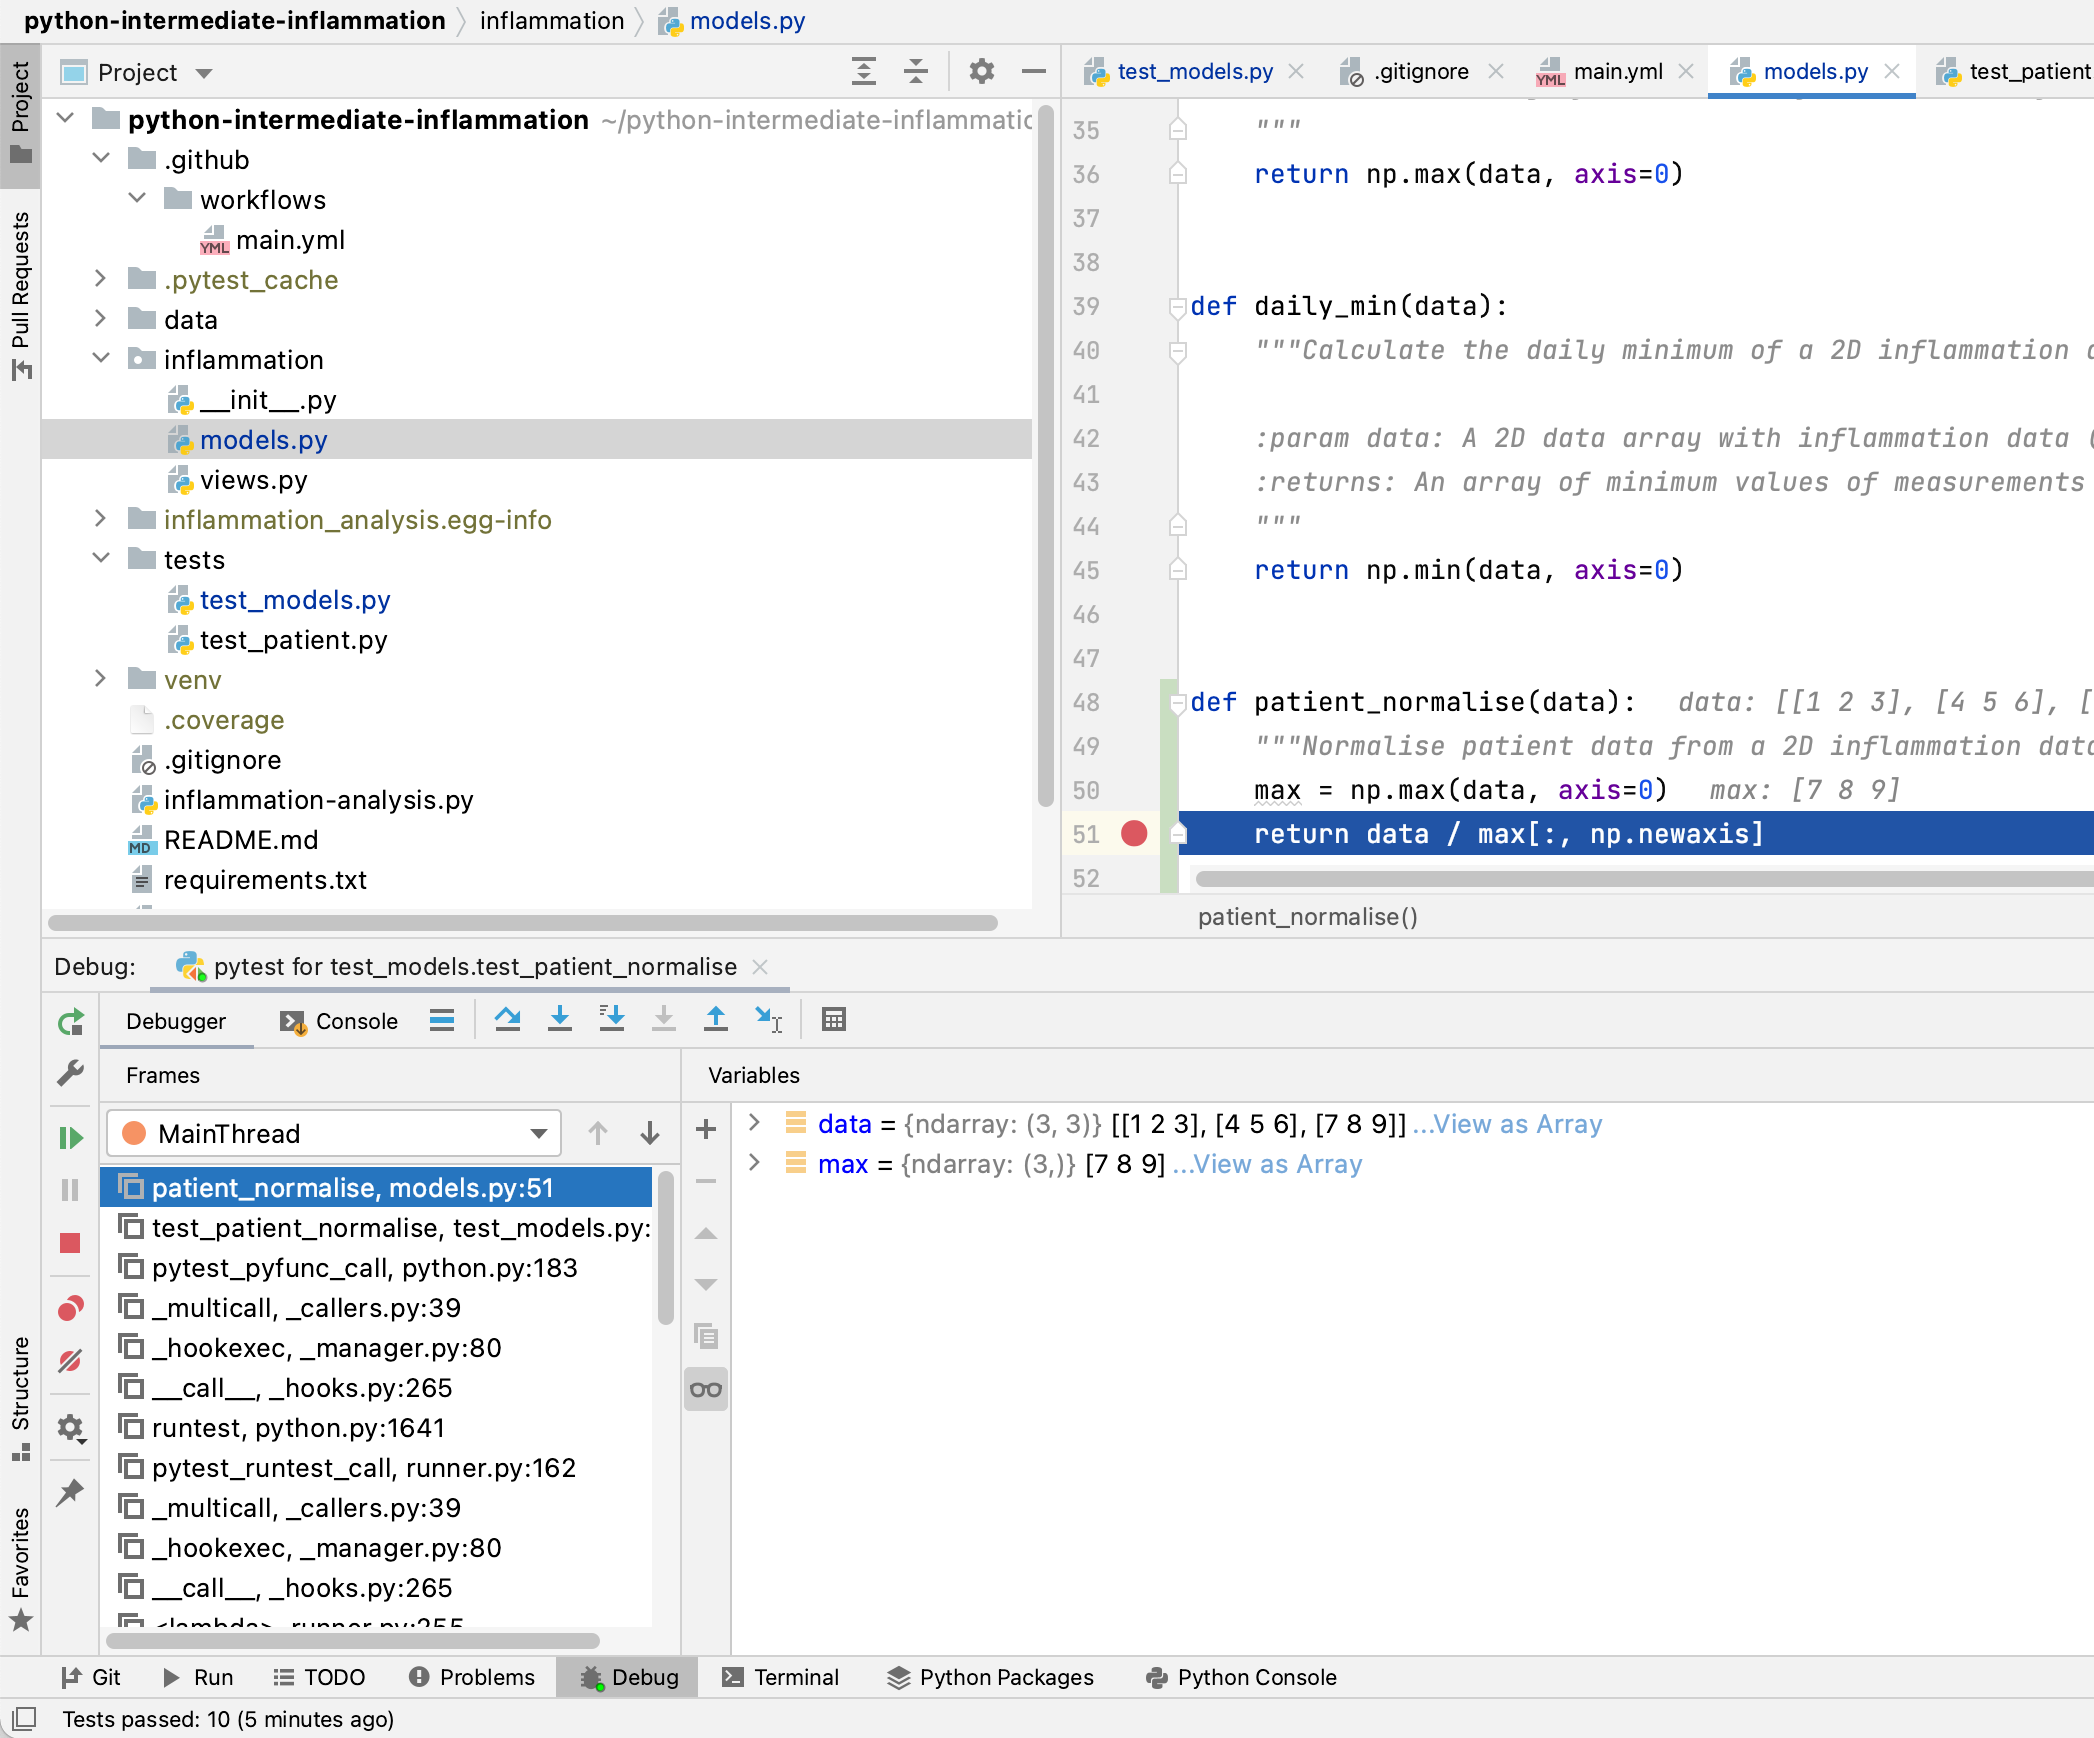
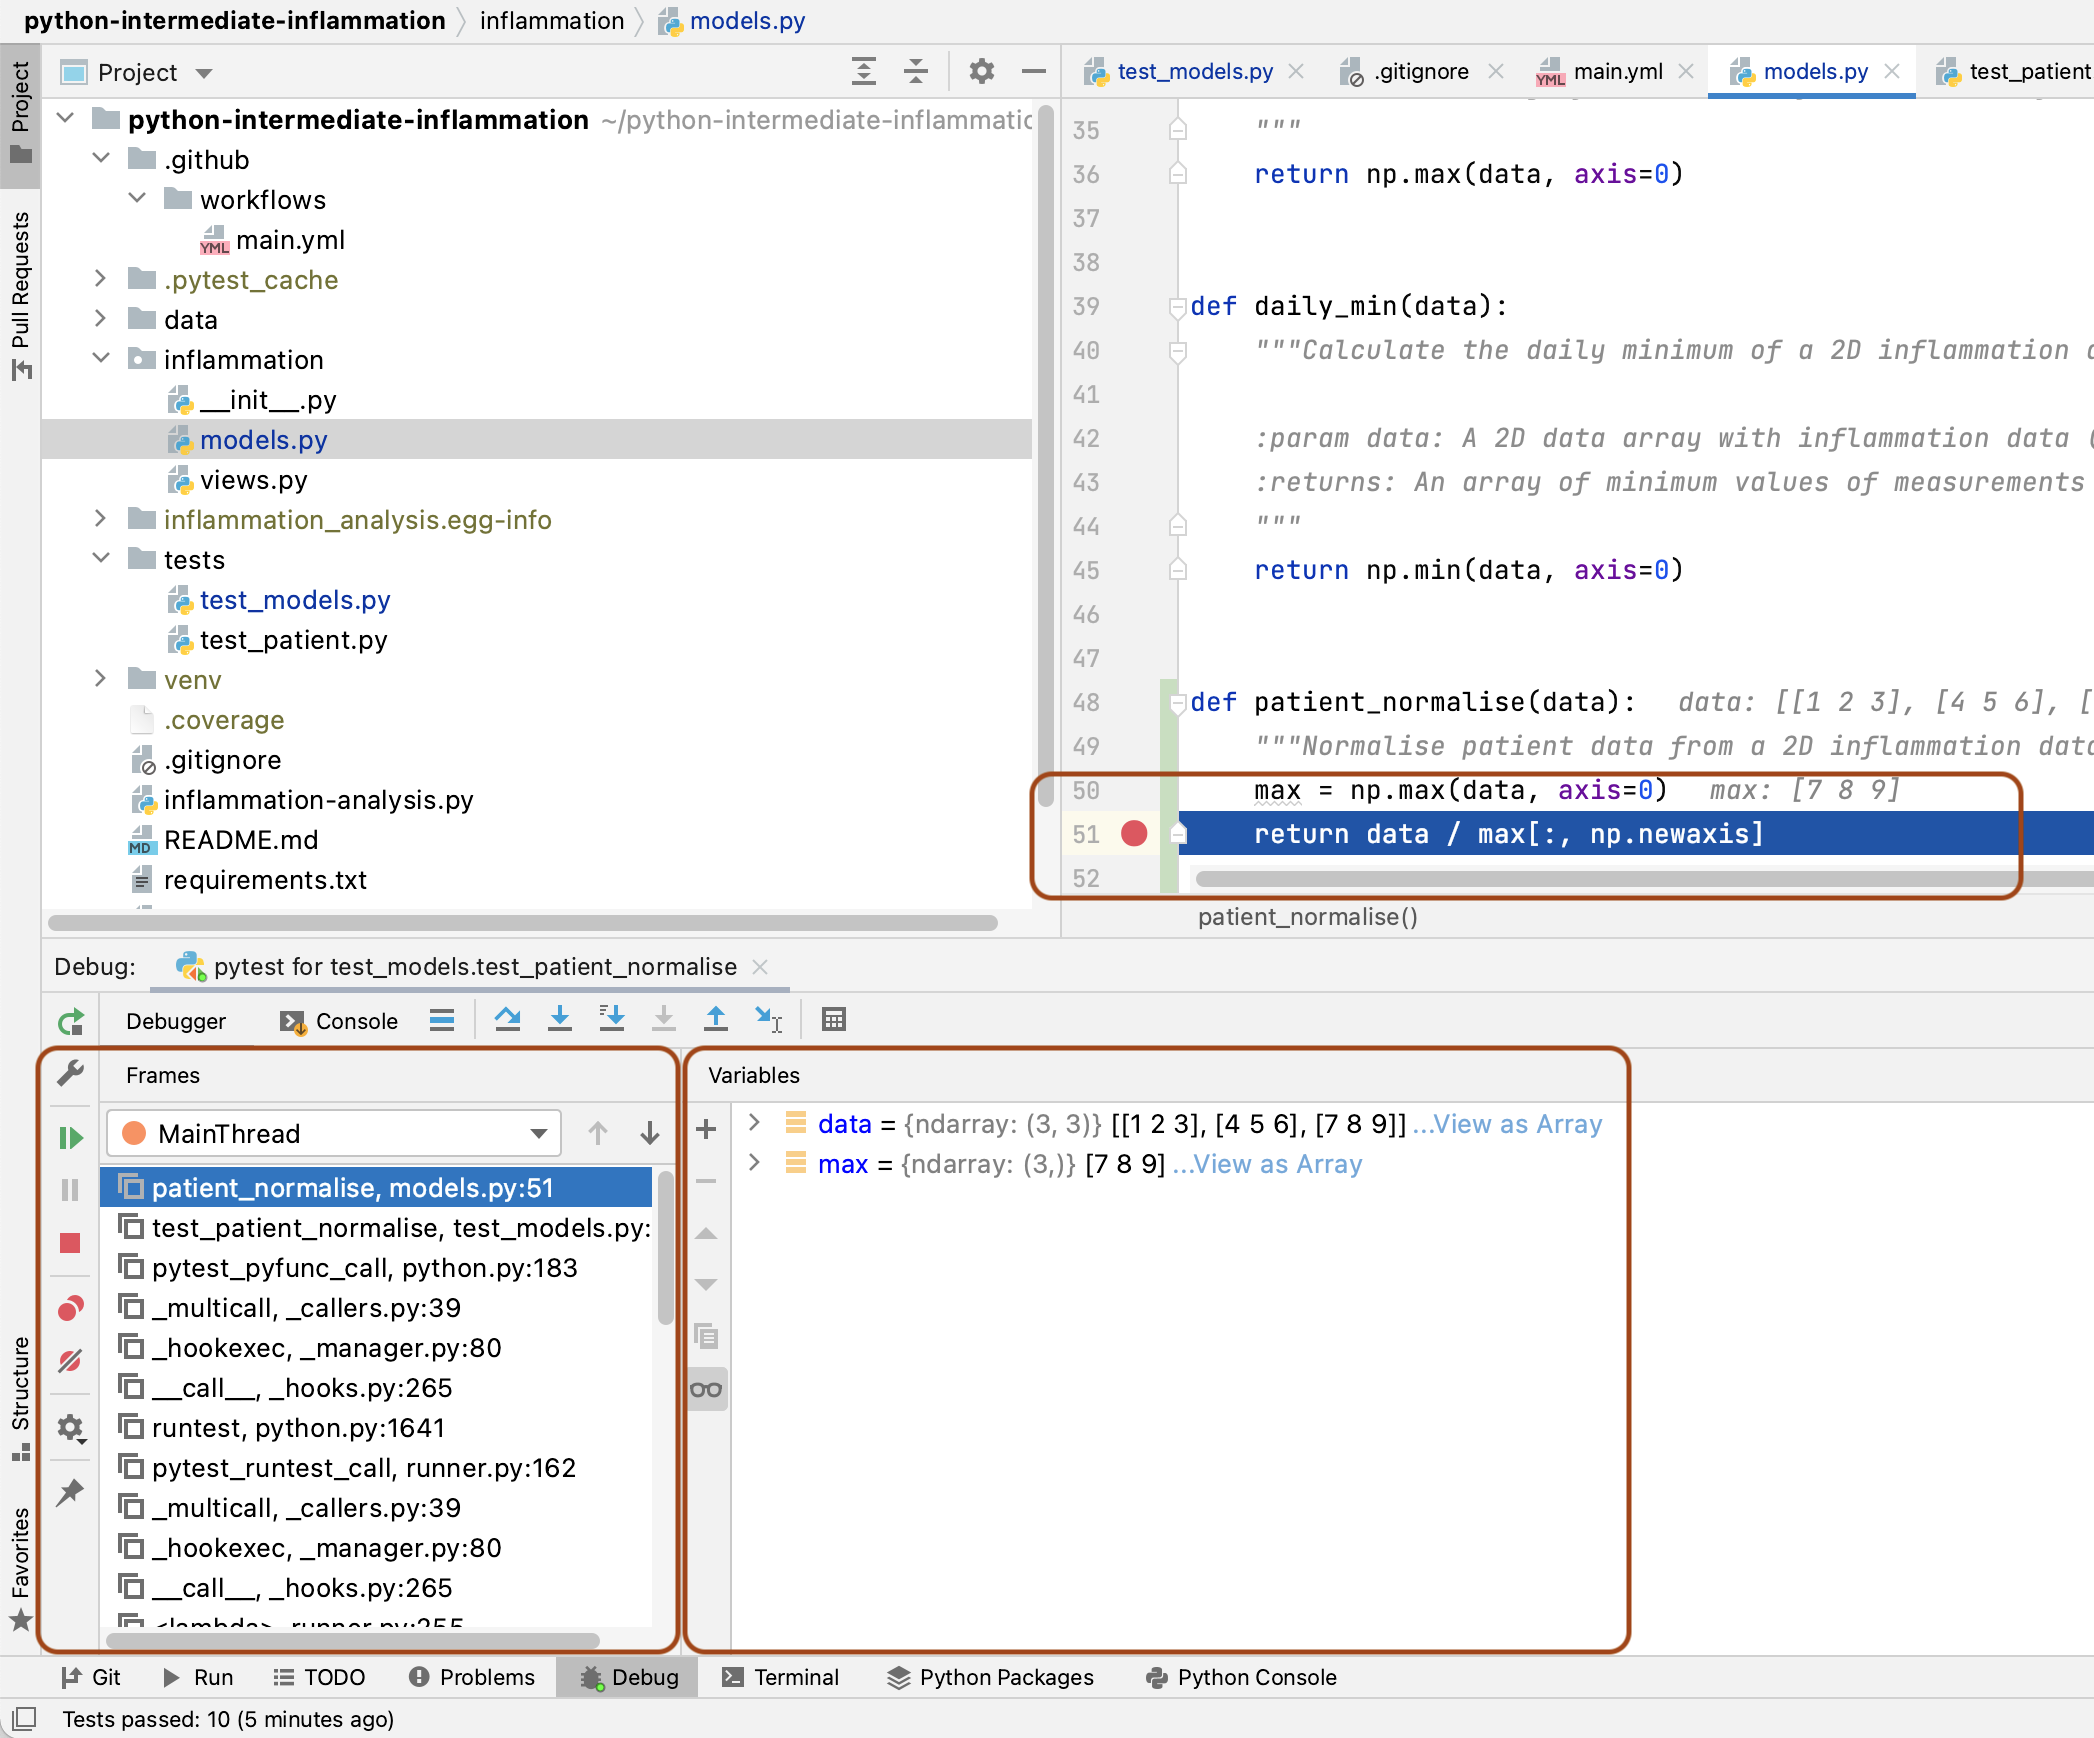
Resizing of section 2 screenshots to aid visibility

Changed region(s): [[0.031, 0.5903, 0.776, 0.9632], [0.4967, 0.4971, 0.9623, 0.5282], [0.4967, 0.435, 0.9623, 0.4661]]

diff --git a/_episodes/16-diagnosing-issues-improving-robustness.md b/_episodes/16-diagnosing-issues-improving-robustness.md
@@ -138,13 +138,13 @@ We can now run `pytest` over our tests in PyCharm, similarly to how we ran our `
 
 We can also run our test functions individually. First, let's check that our PyCharm running and testing configurations are correct. Select `Run` > `Edit Configurations...` from the PyCharm menu, and you should see something like the following:
 
-![Ensuring testing configurations in PyCharm are correct](../fig/pytest-pycharm-check-config.png){: .image-with-shadow width="1000px"}
+![Ensuring testing configurations in PyCharm are correct](../fig/pytest-pycharm-check-config.png){: .image-with-shadow width="800px"}
 
 PyCharm allows us to configure multiple ways of running our code. Looking at the figure above, the first of these - `inflammation-analysis` under `Python` - was configured when we set up how to run our script from within PyCharm. The second - `pytest in test_models.py` under `Python tests` - is our recent test configuration. If you see just these, you're good to go. We don't need any others, so select any others you see and click the `-` button at the top to remove them. This will avoid any confusion when running our tests separately. Click `OK` when done.
 
 Now, if you select the green arrow next to a test function in our `test_models.py` script in PyCharm, and select `Run 'pytest in test_model...'`, we can run just that test:
 
-![Running a single test in PyCharm](../fig/pytest-pycharm-run-single-test.png){: .image-with-shadow width="700px"}
+![Running a single test in PyCharm](../fig/pytest-pycharm-run-single-test.png){: .image-with-shadow width="800px"}
 
 Click on the "run" button next to `test_patient_normalise`, and you will be able to see that PyCharm runs just that test function, and we see the same `AssertionError` that we saw before.
 
@@ -154,7 +154,7 @@ Now we want to use the debugger to investigate what is happening inside the `pat
 
 To set a breakpoint, navigate to the `models.py` file and move your mouse to the `return` statement of the `patient_normalise` function. Click to just to the right of the line number for that line and a small red dot will appear, indicating that you have placed a breakpoint on that line.
 
-![Setting a breakpoint in PyCharm](../fig/pytest-pycharm-set-breakpoint.png){: .image-with-shadow width="700px"}
+![Setting a breakpoint in PyCharm](../fig/pytest-pycharm-set-breakpoint.png){: .image-with-shadow width="600px"}
 
 Now if you select the green arrow next to the `test_patient_normalise` function and instead select `Debug 'pytest in test_model...'`, you will notice that execution will be paused at the `return` statement of `patient_normalise`. In the debug panel that appears below, we can now investigate the exact state of the program prior to it executing this line of code.
 
